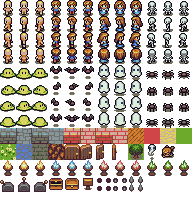
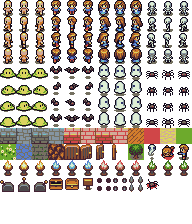
Added spider enemy

diff --git a/js/rpg/game.js b/js/rpg/game.js
@@ -322,8 +322,14 @@ class Player extends MovingObject {
         this.xOld = this.x;
         this.yOld = this.y;
 
-        this.velocityY *= friction;
-        this.velocityX *= friction;
+        // fix for diagonal movement
+        if (Math.abs(this.velocityX) > 0.01 && Math.abs(this.velocityY) > 0.01) {
+            this.velocityY *= friction / 1.1;
+            this.velocityX *= friction / 1.1;
+        } else {
+            this.velocityY *= friction;
+            this.velocityX *= friction;
+        }
 
         if (Math.abs(this.velocityX) > this.velocityMax)
             this.velocityX = this.velocityMax * Math.sign(this.velocityX);
@@ -380,18 +386,18 @@ class Enemy extends MovingObject {
         super(x, y, 10, 16);
 
         this.frameSets = {
-            'idle-down': [28, 29],
-            'idle-left': [31, 32],
-            'idle-right': [34, 35],
-            'idle-up': [37, 38],
-            'move-down': [27, 28],
-            'move-left': [30, 31],
-            'move-right': [33, 34],
-            'move-up': [36, 37],
-            'dead': [51],
+            'idle-down': [54],
+            'idle-left': [57],
+            'idle-right': [60],
+            'idle-up': [63],
+            'move-down': [53, 54],
+            'move-left': [56, 57],
+            'move-right': [59, 60],
+            'move-up': [62, 63],
+            'dead': [65],
         };
 
-        this.animator = new Animator(this.frameSets['move-down'], 5);
+        this.animator = new Animator(this.frameSets['idle-down'], 5, 'pause');
         this.attackRadius = 18;
         this.attentionRadius = 50;
         this.velocityMax = 1;
@@ -473,9 +479,15 @@ class Enemy extends MovingObject {
 
         this.x += this.velocityX;
         this.y += this.velocityY;
-
-        this.velocityY *= friction;
-        this.velocityX *= friction;
+        
+        // fix for diagonal movement
+        if (Math.abs(this.velocityX) > 0.01 && Math.abs(this.velocityY) > 0.01) {
+            this.velocityY *= friction / 1.1;
+            this.velocityX *= friction / 1.1;
+        } else {
+            this.velocityY *= friction;
+            this.velocityX *= friction;
+        }
     }
 }
 
@@ -573,6 +585,11 @@ class TileSet {
             new Frame(96+48, 112-64, 16, 16, 0, 0), new Frame(112+48, 112-64, 16, 16, 0, 0), new Frame(128+48, 112-64, 16, 16, 0, 0), // skeleton-up
             new Frame(144, 144, 16, 16, 0, 0), // ghost-dead
             new Frame(160, 144, 16, 16, 0, 0), // player-dead
+            new Frame(96+48, 64, 16, 16, 0, 0), new Frame(112+48, 64, 16, 16, 0, 0), new Frame(128+48, 64, 16, 16, 0, 0), // spider-down
+            new Frame(96+48, 80, 16, 16, 0, 0), new Frame(112+48, 80, 16, 16, 0, 0), new Frame(128+48, 80, 16, 16, 0, 0), // spider-left
+            new Frame(96+48, 96, 16, 16, 0, 0), new Frame(112+48, 96, 16, 16, 0, 0), new Frame(128+48, 96, 16, 16, 0, 0), // spider-right
+            new Frame(96+48, 112, 16, 16, 0, 0), new Frame(112+48, 112, 16, 16, 0, 0), new Frame(128+48, 112, 16, 16, 0, 0), // spider-up
+            new Frame(144, 176, 16, 16, 0, 0), // spider-dead
         ];
     }
 }
